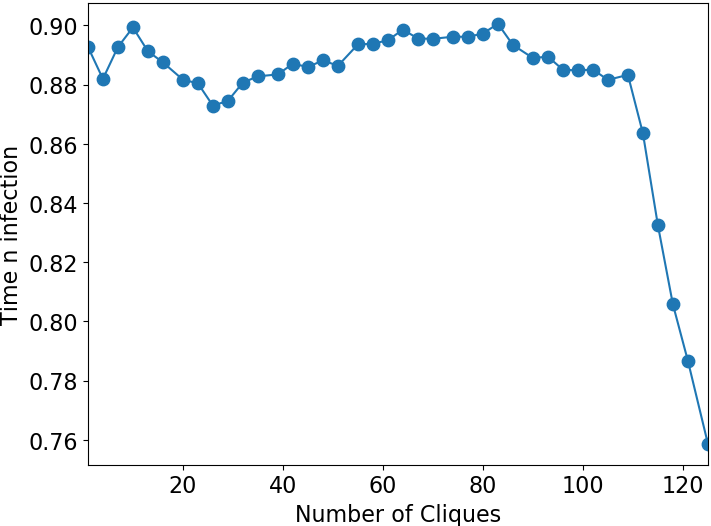
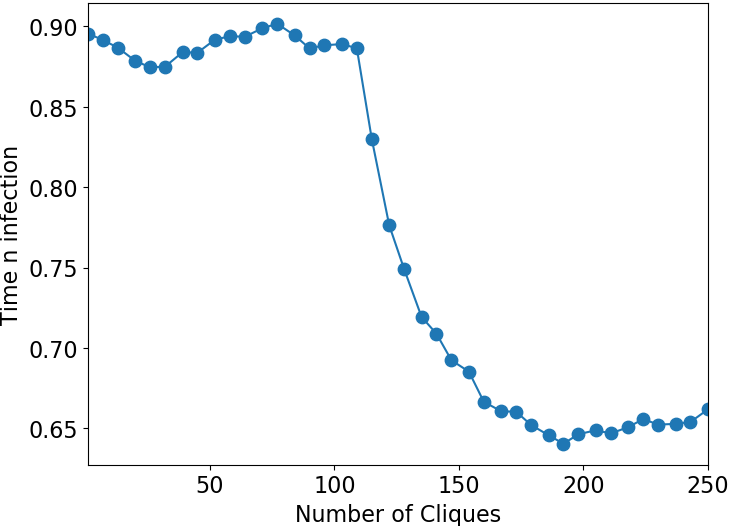
Added strategy that show the impact of increasing the number of nodes in the singular start

diff --git a/execute/plots/multi_red.py b/execute/plots/multi_red.py
@@ -1,0 +1,43 @@
+from execute.import_data import load_airport_and_route
+from networkx import from_edgelist, number_of_nodes, degree
+from model import network
+from execute.run_polya import run_polya
+from model.optimize import simple_centrality
+from utilities import balls_per_node, save_trials, fig_size
+from utilities.plotting import plot_scatter_data
+from numpy import array
+
+
+# Define constants
+red_node_limit = 20
+fresh_data = False
+fig_path = '../../results/analysis/multi_red.png'
+data_path = '../../data/analysis/multi_red.csv'
+
+# Import data and generate network
+_, edges = load_airport_and_route(deep_load=True)
+netx = from_edgelist(edges)
+N = number_of_nodes(netx)
+net = network(N, graph=netx)
+
+budget = N * balls_per_node
+
+simple_centrality(net, 2, node_restriction=11)
+degrees = sorted(degree(netx), key=lambda d: d[1], reverse=True)
+
+infections = []
+for i in range(1, red_node_limit):
+    R = [0] * N
+    total = 0
+    for j in range(i): total += degrees[j][1]
+    for j in range(i): R[degrees[j][0]] += round(degrees[j][1] / total * budget)
+
+    net.set_initial_distribution(red=R)
+    infection = run_polya(net, steps=250)
+    infections.append(infection[len(infection)-1])
+
+headers = list(range(1, red_node_limit))
+data = array([headers, infections])
+save_trials(infections, data_path, titles=headers, single_line=True)
+plot_scatter_data(data, x_label='Number of sites with red balls', y_label='Time n infection', file_name=fig_path,
+                  size=fig_size, connect=True)

diff --git a/execute/plots/popular_clique.py b/execute/plots/popular_clique.py
@@ -34,6 +34,6 @@ else:
     trial_infections, num_cliques = load_csv_col(data_path, with_headers=True, parse=float, trans=True)
 
 data = array([num_cliques, trial_infections])
-save_trials(trial_infections, data_path, titles=num_cliques)
+save_trials(trial_infections, data_path, titles=num_cliques, single_line=True)
 plot_scatter_data(data, x_label='Number of Cliques', y_label='Time n infection', size=fig_size,
                   connect=True, file_name=fig_path)
